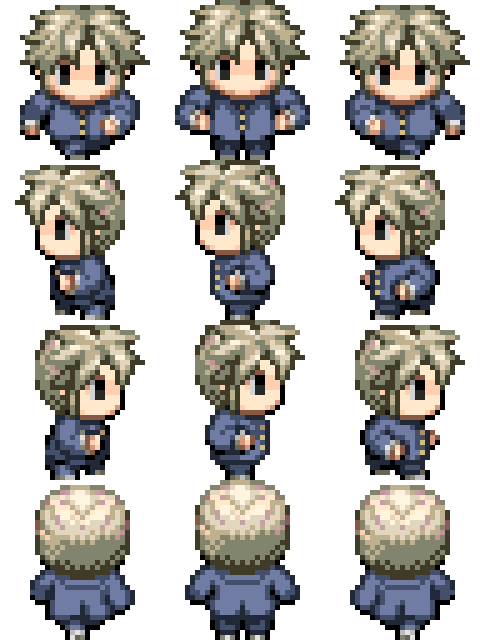
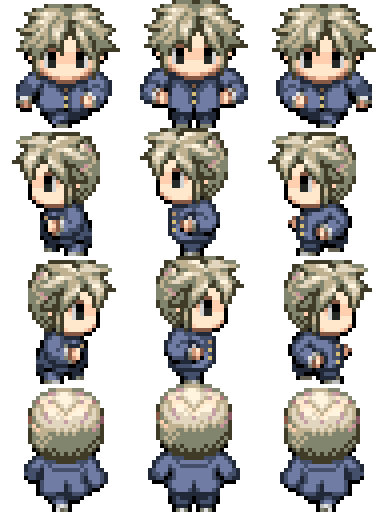
人物移动

diff --git a/source/supermarket.py b/source/supermarket.py
@@ -1,67 +1,110 @@
-#导入模块
+# 导入模块
 
+from operator import index
 import sys
+from turtle import towards
 import pygame
 import math
 
-#pygame初始化
+# pygame初始化
 
 pygame.init()
 
-#设置主窗口
+# 设置主窗口
 
-main_screen = pygame.display.set_mode((1280,960))
+main_screen = pygame.display.set_mode((1280, 960))
 pygame.display.set_caption("这是一个标题")
-image_icon = pygame.image.load("../res/icon.png").convert()
+image_icon = pygame.image.load("../res/image/icon.png").convert()
 pygame.display.set_icon(image_icon)
 
-#设置背景
+# 设置背景
 
-image_background = pygame.image.load("../res/map.png").convert()
+image_background = pygame.image.load("../res/image/map.png").convert()
 background_x = 320
 background_y = -1280
 
-#初始化移动变量
+# 初始化移动变量
 
 movement_x = 0
 movement_y = 0
 
-#定义实体类
+# 定义实体类
+
 
 class solid(pygame.sprite.Sprite):
-    def __init__(self,filename,location):
+    def __init__(self, filename, location):
         pygame.sprite.Sprite.__init__(self)
         self.image = pygame.image.load(filename)
         self.rect = self.image.get_rect()
         self.rect.topleft = location
 
-#设置角色
-        
-buyer = solid("../res/player_right.png" , (640-80,480-80))
-buyer_speed =  12
+# 定义玩家类
 
-#设置障碍物
+
+class player(pygame.sprite.Sprite):
+    def __init__(self, filename, frames=1):   # 造型frames默认为1
+        pygame.sprite.Sprite.__init__(self)
+        self.images = []
+        img = pygame.image.load(filename)
+        self.original_width = img.get_width() // 3
+        self.original_height = img.get_height() // 4        # 分割图片
+        x = 0
+        y = 0
+        for frame_no in range(frames):
+            self.images.append(img.subsurface((x, y, 128, 128)))
+            x += self.original_width
+            if x == 3 * self.original_width:
+                x = 0
+                y += self.original_height
+        self.index = 7
+        self.image = self.images[self.index]
+        self.rect = self.image.get_rect()
+        self.rect.topleft = [640-64, 480-64]
+        self.last_time = 0
+        self.towards = 1
+        self.movement = 0
+        self.firstframe = {1: 7, 2: 1, 3: 4, 4: 10}
+        self.lastframe = {1: 9, 2: 3, 3: 6, 4: 12}
+
+    def update(self, current_time):
+        x = self.firstframe[self.towards]
+        y = self.lastframe[self.towards]
+        if self.index <= x - 1:
+            self.index = x - 1
+        if current_time - self.last_time > 150:
+            self.index += 1
+            self.last_time = current_time
+        if self.index >= y:
+            self.index = x - 1
+# 设置角色
+
+
+buyer = player("../res/image/人物.png", 12)
+buyer_speed = 12
+
+
+# 设置障碍物
 
 blocks = []
-for i in range(7,26):
-    blocks.append(solid("../res/wrong.png" , (160*i+320,160*3-1280)))
-for i in range(7,22):
-    blocks.append(solid("../res/wrong.png" , (160*i+320,160*15-1280)))
+for i in range(7, 26):
+    blocks.append(solid("../res/image/wrong.png", (160*i+320, 160*3-1280)))
+for i in range(7, 22):
+    blocks.append(solid("../res/image/wrong.png", (160*i+320, 160*15-1280)))
 
-#创建时钟对象（控制游戏的FPS）
+# 创建时钟对象（控制游戏的FPS）
 
 clock = pygame.time.Clock()
 
-#主循环
+# 主循环
 
 while True:
 
-#锁60帧
+    # 锁60帧
 
     clock.tick(60)
-    
-#处理事件
-    
+
+# 处理事件
+
     for event in pygame.event.get():
         if event.type == pygame.QUIT:
             pygame.quit()
@@ -69,22 +112,31 @@ while True:
         if event.type == pygame.KEYUP:
             movement_x = 0
             movement_y = 0
+            buyer.movement = 0
         if pygame.key.get_pressed()[pygame.K_w]:
             movement_y = buyer_speed
+            buyer.towards = 4
+            buyer.movement = 1
         if pygame.key.get_pressed()[pygame.K_s]:
             movement_y = -buyer_speed
+            buyer.towards = 2
+            buyer.movement = 1
         if pygame.key.get_pressed()[pygame.K_a]:
             movement_x = buyer_speed
+            buyer.towards = 3
+            buyer.movement = 1
         if pygame.key.get_pressed()[pygame.K_d]:
             movement_x = -buyer_speed
-        
-    
-#处理上下碰撞
+            buyer.towards = 1
+            buyer.movement = 1
+
+
+# 处理上下碰撞
     if (movement_x == 0 and movement_y != 0):
         flag_ud = 1
         for i in blocks:
             i.rect.top += movement_y
-            if pygame.sprite.collide_rect(buyer , i):
+            if pygame.sprite.collide_rect(buyer, i):
                 i.rect.top -= movement_y
                 flag_ud = 0
                 break
@@ -94,12 +146,12 @@ while True:
             for i in blocks:
                 i.rect.top += movement_y
 
-#处理左右碰撞
+# 处理左右碰撞
     if (movement_y == 0 and movement_x != 0):
         flag_lr = 1
         for i in blocks:
             i.rect.left += movement_x
-            if pygame.sprite.collide_rect(buyer , i):
+            if pygame.sprite.collide_rect(buyer, i):
                 i.rect.left -= movement_x
                 flag_lr = 0
                 break
@@ -109,7 +161,7 @@ while True:
             for i in blocks:
                 i.rect.left += movement_x
 
-#处理斜碰
+# 处理斜碰
     if (movement_y != 0 and movement_x != 0):
         flag = 1
         flag_ud = 1
@@ -118,7 +170,7 @@ while True:
         for i in blocks:
             i.rect.left += m_x1
             i.rect.top += m_y1
-            if pygame.sprite.collide_rect(buyer , i):
+            if pygame.sprite.collide_rect(buyer, i):
                 i.rect.left -= m_x1
                 i.rect.top -= m_y1
                 flag = 0
@@ -132,11 +184,11 @@ while True:
                 i.rect.left += m_x1
                 i.rect.top += m_y1
         else:
-            #处理上下碰撞
+            # 处理上下碰撞
             flag_ud = 1
             for i in blocks:
                 i.rect.top += movement_y
-                if pygame.sprite.collide_rect(buyer , i):
+                if pygame.sprite.collide_rect(buyer, i):
                     i.rect.top -= movement_y
                     flag_ud = 0
                     break
@@ -145,11 +197,11 @@ while True:
                 background_y += movement_y
                 for i in blocks:
                     i.rect.top += movement_y
-            #处理左右碰撞
+            # 处理左右碰撞
             flag_lr = 1
             for i in blocks:
                 i.rect.left += movement_x
-                if pygame.sprite.collide_rect(buyer , i):
+                if pygame.sprite.collide_rect(buyer, i):
                     i.rect.left -= movement_x
                     flag_lr = 0
                     break
@@ -158,14 +210,17 @@ while True:
                 background_x += movement_x
                 for i in blocks:
                     i.rect.left += movement_x
-            
-#打印图像
-    
-    main_screen.blit( image_background , ( background_x , background_y ))
-    
+
+# 打印图像
+
+    main_screen.blit(image_background, (background_x, background_y))
+
     for i in blocks:
-        main_screen.blit( i.image , i.rect )
-    
-    main_screen.blit( buyer.image , buyer.rect )
-    
+        main_screen.blit(i.image, i.rect)
+    if buyer.movement == 1:
+        buyer.update(pygame.time.get_ticks())
+    else:
+        buyer.index = buyer.firstframe[buyer.towards]
+    buyer.image = buyer.images[buyer.index]
+    main_screen.blit(buyer.image, buyer.rect)
     pygame.display.flip()
